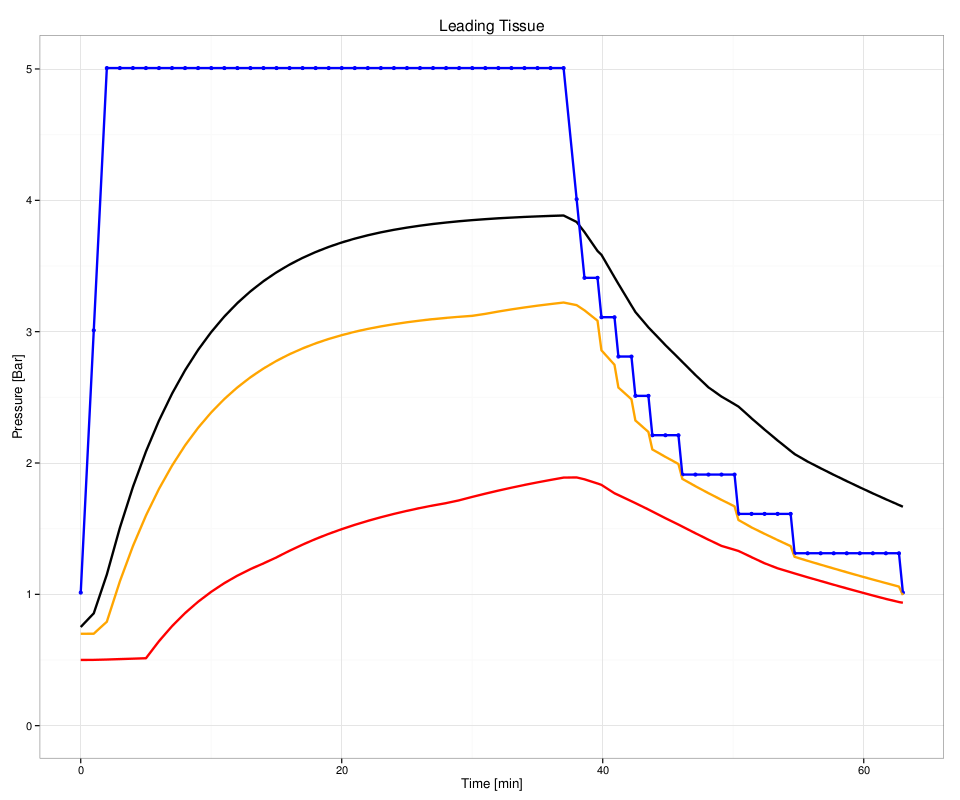
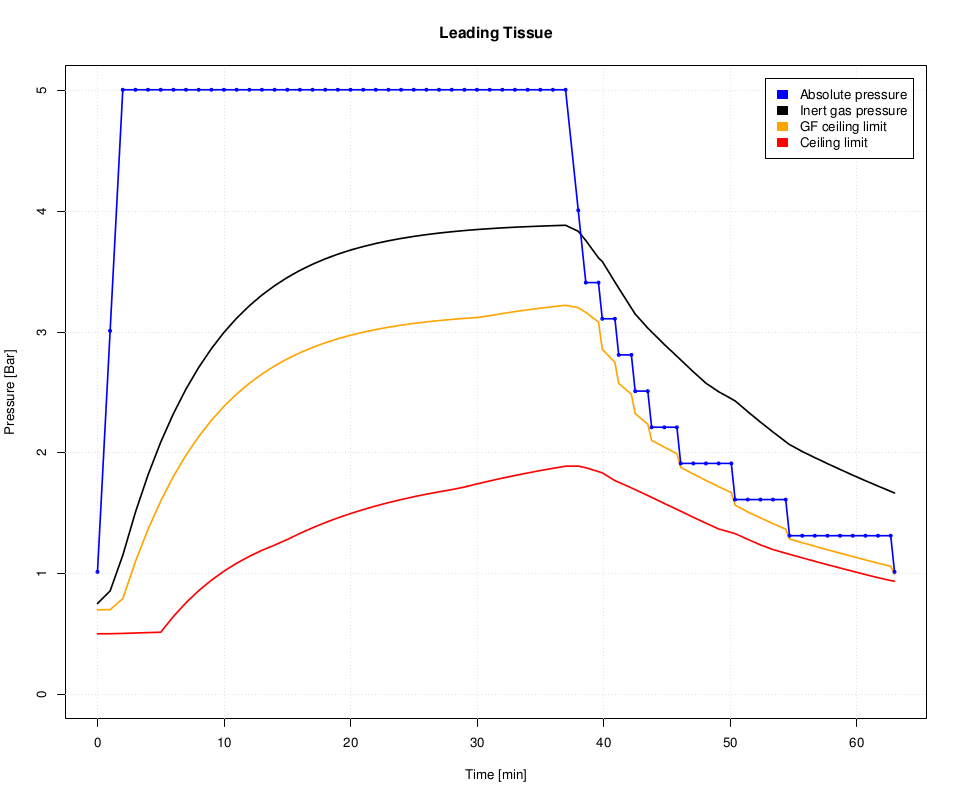
- added documentation section about comparing dive decompression data with   dt-plot script

diff --git a/doc/cmd.rst b/doc/cmd.rst
@@ -106,7 +106,24 @@ red
 
    Leading tissue data plot
 
-.. todo:: describe plotting data of two different dives (i.e. to compare
-   two different implementations of an algorithm)
+Comparing Dive Decompression Data
+~~~~~~~~~~~~~~~~~~~~~~~~~~~~~~~~~
+The ``dt-plot`` script allows to compare two dive profiles, i.e. to
+visualize differences between two decompression models, decompression model
+parameters or various gas mix configurations.
+
+For example, to compare two dive profiles for ZH-L16B-GF and ZH-L16C-GF
+decompression models::
+
+    $ dt-lint -f dive.csv -t 60 -gl 20 -gh 90 -l '21,0@0 50,0@21 100,0@6' 40 35
+    $ dt-lint -f dive-c.csv -m zh-l16c-gf -t 60 -gl 20 -gh 90 -l '21,0@0 50,0@21 100,0@6' 40 35
+    $ dt-plot dive.csv dive-c.csv dive.pdf
+
+.. _cmd-plot-leading-tissue-cmd:
+
+.. figure:: dive-cmp.png
+   :align: center
+
+   Comparison of leading tissue data between ZH-L16B-GF and ZH-L16C-GF
 
 .. vim: sw=4:et:ai
